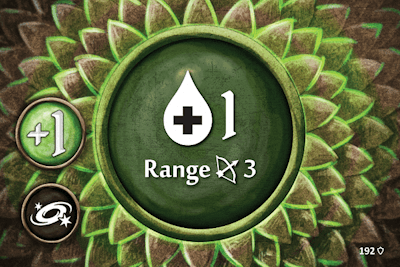
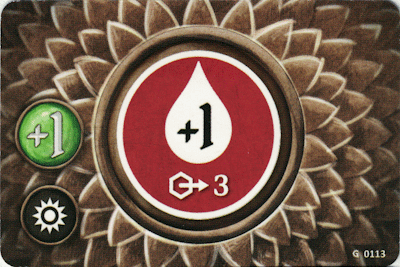
gh2e perks

diff --git a/frosthaven_assistant/lib/Layout/menus/perks_menu.dart b/frosthaven_assistant/lib/Layout/menus/perks_menu.dart
@@ -95,19 +95,24 @@ class LootCardListTileState extends State<PerkListTile> {
       gfx = gfx.substring(1);
       String flip = "";
       String range = "";
+      String target = "";
       if (gfx.endsWith("flip")) {
         flip = "%flip%";
         gfx = gfx.substring(0, gfx.length - "flip".length);
       }
       if (gfx.contains("range")) {
         range = " %range% ${gfx.substring(gfx.length - 1)}";
-        gfx = gfx.substring(0, range.length);
+        gfx = gfx.substring(0, gfx.length - "range".length - 1);
       }
       String ally = "";
       if (gfx.contains("ally")) {
         ally = ", %target%1 ally";
         gfx = gfx.substring(
             0, gfx.length - "ally".length); //should be %target% 1 ally?
+      }
+      if (gfx.contains("target")) {
+        target = " %target% ${gfx.substring(gfx.length - 1)}";
+        gfx = gfx.substring(0, gfx.length - "target".length - 1);
       }
       String mainMod = "";
       String maybeNr = "";
@@ -132,7 +137,7 @@ class LootCardListTileState extends State<PerkListTile> {
           //|| gfx == "safeguard"
           //|| gfx == "dodge"
           ;
-      if (ally.isEmpty && positiveMod) {
+      if (ally.isEmpty && positiveMod && range.isEmpty) {
         ally = ", self";
       }
 
@@ -144,9 +149,13 @@ class LootCardListTileState extends State<PerkListTile> {
         initialQuoteSpace = " ";
       }
 
-      return (mainMod == "%target%")
-          ? "$retVal$initialQuoteSpace$quotes+ $maybeNr$mainMod$range$ally$quotes$flip"
-          : "$retVal$initialQuoteSpace$quotes$mainMod$maybeNr$range$ally$quotes$flip";
+      if (mainMod.isEmpty && target.isNotEmpty) {
+        //target is main mod
+        target =
+            "+ ${target.substring(target.length - 1, target.length)}%target%";
+      }
+
+      return "$retVal$initialQuoteSpace$quotes$mainMod$maybeNr$range$target$ally$quotes$flip";
     }
     return retVal;
   }

diff --git a/frosthaven_assistant/lib/Resource/settings.dart b/frosthaven_assistant/lib/Resource/settings.dart
@@ -40,7 +40,7 @@ class Settings {
   final showBattleGoalReminder = ValueNotifier<bool>(true);
   final fhHazTerrainCalcInOGGloom = ValueNotifier<bool>(true);
   final showCharacterAMD = ValueNotifier<bool>(
-      false); //todo: this should be true on release of this feature
+      true); //todo: this should be true on release of this feature
 
   //used for both initiative and search menus
   final softNumpadInput = ValueNotifier<bool>(false);

diff --git a/frosthaven_assistant/lib/Resource/line_builder/token_applier.dart b/frosthaven_assistant/lib/Resource/line_builder/token_applier.dart
@@ -13,6 +13,12 @@ class TokenApplier {
     }
     line = line.replaceAll("2x", "%2x%");
 
+    //removing empty spaces  eg - 1 -> -1
+    for (int i = 1; i <= 4; i++) {
+      line = line.replaceAll("- $i", "-$i");
+      line = line.replaceAll("+ $i", "+$i");
+    }
+
     List<InlineSpan> textPartListRowContent = [];
     int partStartIndex = 0;
     bool isIconPart = false;

diff --git a/frosthaven_assistant/lib/Resource/ui_utils.dart b/frosthaven_assistant/lib/Resource/ui_utils.dart
@@ -175,6 +175,9 @@ bool hasGHVersion(String name) {
   if (name.contains("flip")) {
     return false;
   }
+  if (name.contains("bless")) {
+    return false;
+  }
   return true;
 }
 
